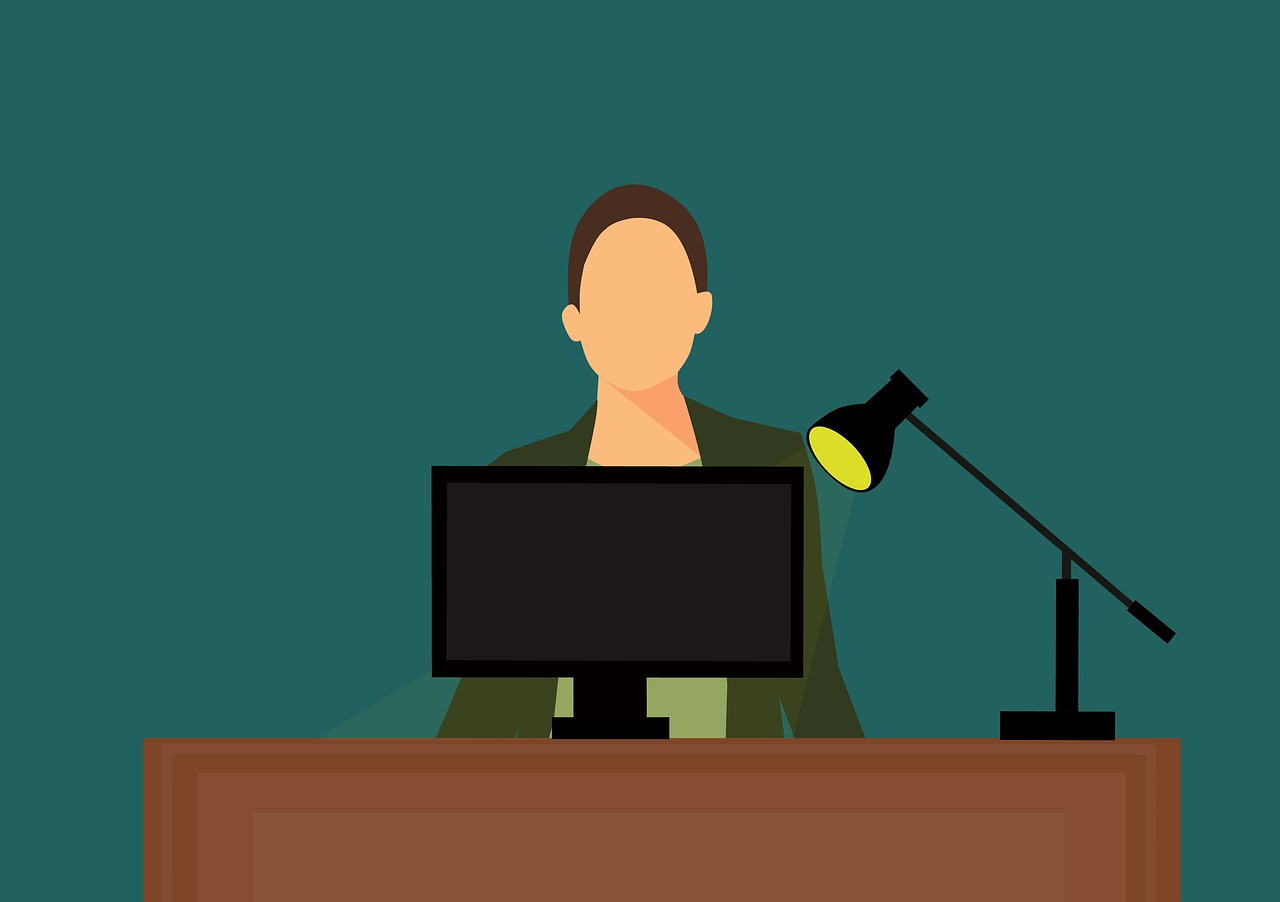
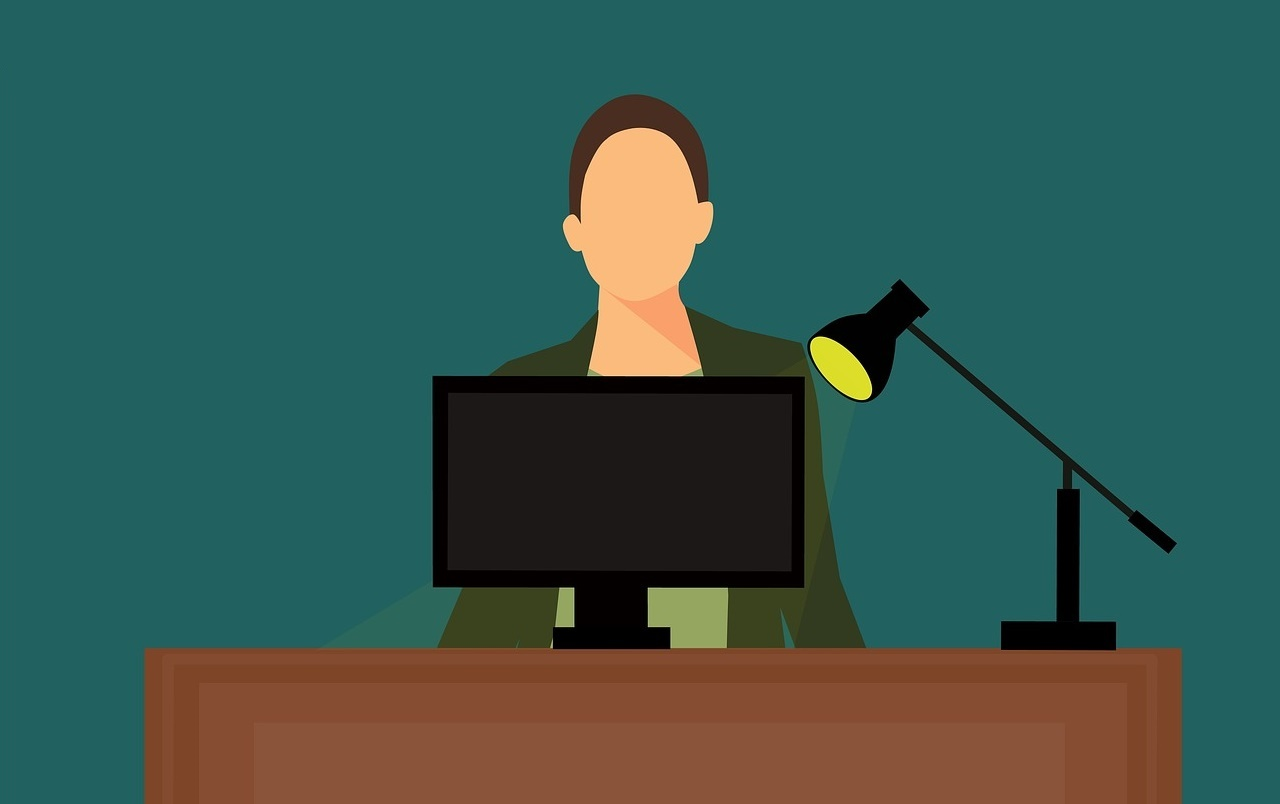
display photo added to repo

Changed region(s): [[0.0938, 0.0933, 0.9375, 0.8396]]

diff --git a/index.html b/index.html
@@ -10,6 +10,7 @@
     </style>
 
     <link href="app/style/reset.css" rel="stylesheet" type="text/css" />
+    <link href="https://fonts.googleapis.com/css?family=Pangolin" rel="stylesheet">
     <link href="app/style/styles.css" rel="stylesheet" type="text/css" />
     <script src="app/lib/angular.min.js"></script>
     <script src="app/lib/angular-route.min.js"></script>

diff --git a/app/style/styles.css b/app/style/styles.css
@@ -6,8 +6,11 @@
 }
 
 #screen1 {
-    background-image: url('../assets/images/bg1.jpg');
+    background-image: url('../assets/images/bg2.jpg');
     background-position: 0 0;
+    background-size: 100% auto;
     width: 100%;
     height: 100%;
+    font-family: 'Pangolin', cursive;
+    font-size: 40px;
 }
